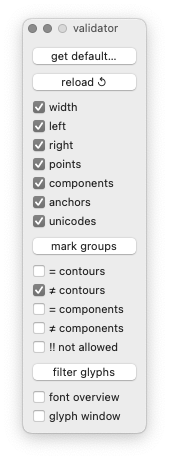
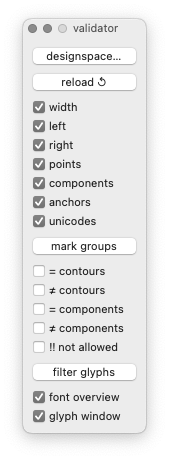
adding xproject module (WIP), updating screenshots for next release

Changed region(s): [[0.2663, 0.0913, 0.7101, 0.1522], [0.1775, 0.8522, 0.2663, 0.9435], [0.1775, 0.6087, 0.2663, 0.6696]]

diff --git a/Lib/xTools4/modules/xproject.py b/Lib/xTools4/modules/xproject.py
@@ -1,0 +1,113 @@
+# WARNING: THIS IS A WORK-IN-PROGRESS DRAFT, NOT USABLE YET
+
+measurementsPathKey = 'com.xTools4.xProject.measurementsPath'
+smartSetsPathKey    = 'com.xTools4.xProject.smartSetsPath'
+smartSetsPathKey    = 'com.xTools4.xProject.glyphConstructionsPath'
+
+class xProject:
+    '''
+    This object represents the source files of a parametric avar2 variable font.
+
+    - smart sets
+    - glyph constructions
+    - features
+    - measurements
+    - blends
+    - fences?
+
+    Example:
+
+    p = xProject(folder, 'AmstelvarA2')
+    p.buildBlends()
+    p.buildDesignspace()
+    p.buildVariableFont()
+    p.buildInstancesUFO()
+    p.buildInstancesTTF()
+
+    '''
+
+    defaultName    = 'wght400'
+    parametricAxes = []
+
+    def __init__(self, folder, familyName):
+        self.baseFolder = folder
+        self.familyName = familyName
+
+    # sources
+
+    @property
+    def sourcesFolder(self):
+        return os.path.join(self.baseFolder, 'Sources')
+
+    @property
+    def sources(self):
+        return glob.glob(f'{self.sourcesFolder}/*.ufo')
+
+    @property
+    def defaultSource(self):
+        return os.path.join(self.sourcesFolder, f'{self.familyName}_{self.defaultName}.ufo')
+
+    # designspace
+
+    @property
+    def designspaceFileName(self):
+        return f'{self.familyName}.designspace'
+
+    @property
+    def designspacePath(self):
+        return os.path.join(self.sourcesFolder, self.designspaceFileName)
+
+    @property
+    def defaultLocation(self):
+        # L = { name: permille(self.measurementsDefault.values[name], self.unitsPerEm) for name in self.parametricAxes }
+        # L['GRAD'] = 0
+        return L
+
+    # measurements
+
+    @property
+    def measurementsFileName(self):
+        return 'measurements.json'
+
+    @property
+    def measurementsPath(self):
+        return os.path.join(self.sourcesFolder, self.measurementsFileName)
+
+    # blending
+
+    @property
+    def blendsFileName(self):
+        return 'blends.json'
+
+    @property
+    def blendsPath(self):
+        return os.path.join(self.sourcesFolder, self.blendsFileName)
+
+    @property
+    def blendedAxes(self):
+        with open(self.blendsPath, 'r', encoding='utf-8') as f:
+            blendsData = json.load(f)
+        return blendsData['axes']
+
+    @property
+    def blendedSources(self):
+        with open(self.blendsPath, 'r', encoding='utf-8') as f:
+            blendsData = json.load(f)
+        return blendsData['sources']
+
+    # instances
+
+    @property
+    def instancesFolder(self):
+        return os.path.join(self.sourcesFolder, 'instances')
+
+    # variable font
+
+    @property
+    def fontsFolder(self):
+        return os.path.join(self.baseFolder, 'Fonts')
+
+    @property
+    def varFontPath(self):
+        return os.path.join(self.fontsFolder, f'{self.familyName}.ttf')
+

diff --git a/Lib/xTools4/dialogs/variable/GlyphMeme.py b/Lib/xTools4/dialogs/variable/GlyphMeme.py
@@ -19,8 +19,8 @@ tempEditModeKey        = 'com.xTools4.tempEdit.mode'
 fontMeasurementsKey    = 'com.xTools4.measurements.font'
 defaultMeasurementsKey = 'com.xTools4.measurements.default'
 
-measurementsPathKey    = 'com.xTools4.xProject.measurementsPath'
-smartSetsPathKey       = 'com.xTools4.xProject.smartSetsPath'
+# measurementsPathKey    = 'com.xTools4.xProject.measurementsPath'
+# smartSetsPathKey       = 'com.xTools4.xProject.smartSetsPath'
 
 
 class GlyphMemeController(ezui.WindowController):
